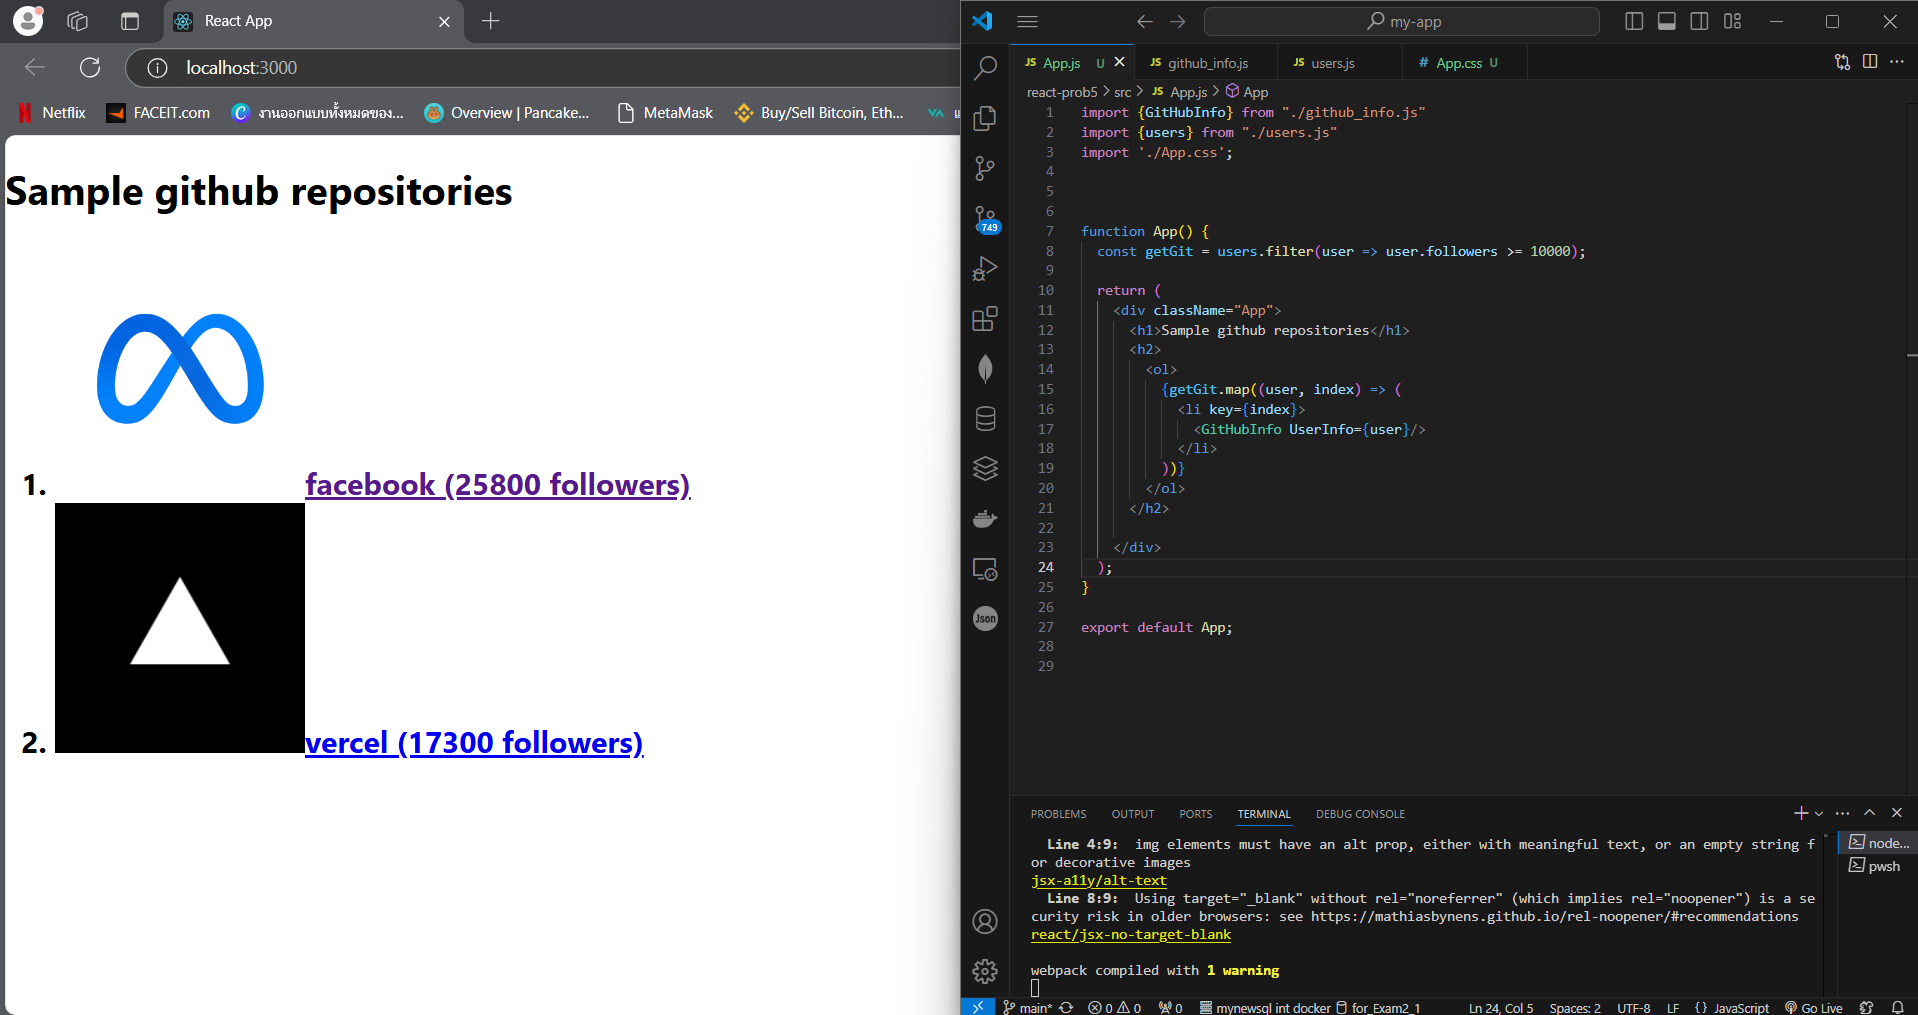
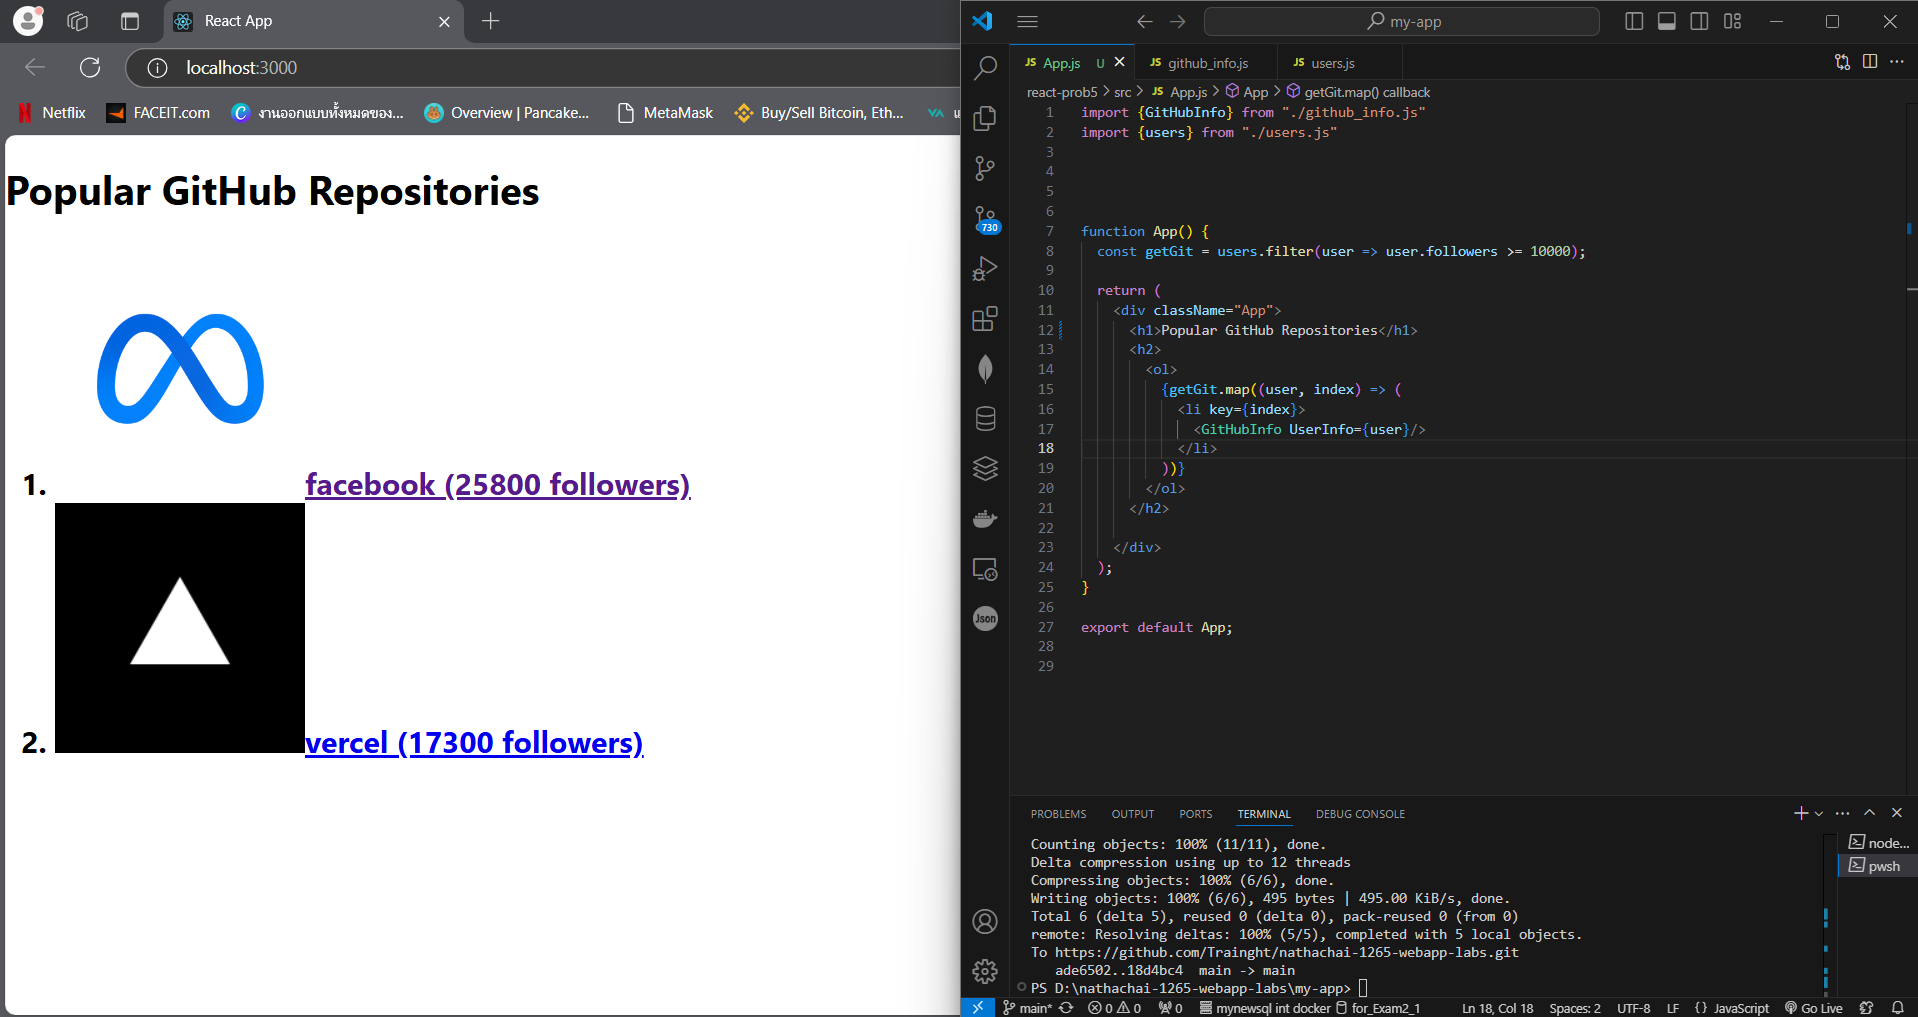
Final React Problem 5

diff --git a/my-app/react-prob5/src/App.js b/my-app/react-prob5/src/App.js
@@ -9,7 +9,7 @@ function App() {
 
   return (
     <div className="App">
-      <h1>Sample github repositories</h1>
+      <h1>Popular GitHub Repositories</h1>
       <h2>
         <ol>
           {getGit.map((user, index) => (
